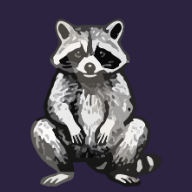
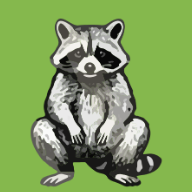
Switch to a light green palette and add the days that matter
Background is now 85B84D with light cards and dark green text, icons
rebuilt to match.

Mrs Raccoon also reminds him of the wedding anniversary on 7 September
(7, 3 and 1 days ahead plus the day itself), Valentine's day and cinnamon
bun day. The reminder is pushed at 07:30 outside the day's random slots,
once per day, and the app shows a banner as the day approaches.

Claude-Session: https://claude.ai/code/session_01682bsGJYGJd6KEeqXoALDB

diff --git a/style.css b/style.css
@@ -1,17 +1,17 @@
 /* =========================================================
-   MRS RACCOON 🦝 – mysig nattstil med varm pepp
+   MRS RACCOON 🦝 – ljus grön stil med varm pepp
    ========================================================= */
 
 :root {
-  --bg: #1d1830;
-  --bg-2: #2b2340;
-  --card: rgba(255, 255, 255, 0.06);
-  --card-border: rgba(255, 255, 255, 0.12);
-  --text: #f3eefb;
-  --muted: #b3a9cc;
-  --accent: #ffb765;
-  --accent-2: #ff7aa2;
-  --ok: #7ee3a7;
+  --bg: #85b84d;
+  --bg-top: #a5cf73;
+  --card: rgba(255, 255, 255, 0.82);
+  --card-border: rgba(37, 66, 18, 0.18);
+  --text: #20320f;
+  --muted: #4e6b32;
+  --accent: #e2622c;
+  --accent-2: #c8407a;
+  --ok: #2f7d24;
   --radius: 20px;
 }
 
@@ -21,7 +21,8 @@ html, body {
   margin: 0;
   padding: 0;
   min-height: 100%;
-  background: radial-gradient(1200px 600px at 50% -10%, #3a2f57 0%, var(--bg) 60%);
+  background: radial-gradient(1200px 700px at 50% -15%, var(--bg-top) 0%, var(--bg) 62%);
+  background-attachment: fixed;
   color: var(--text);
   font-family: Nunito, system-ui, -apple-system, "Segoe UI", sans-serif;
   -webkit-tap-highlight-color: transparent;
@@ -32,11 +33,11 @@ html, body {
   inset: 0;
   pointer-events: none;
   background-image:
-    radial-gradient(1.5px 1.5px at 20% 30%, rgba(255,255,255,0.5), transparent),
-    radial-gradient(1.5px 1.5px at 70% 20%, rgba(255,255,255,0.35), transparent),
-    radial-gradient(1.5px 1.5px at 40% 70%, rgba(255,255,255,0.3), transparent),
-    radial-gradient(2px 2px at 85% 60%, rgba(255,255,255,0.25), transparent),
-    radial-gradient(1.5px 1.5px at 10% 85%, rgba(255,255,255,0.3), transparent);
+    radial-gradient(2px 2px at 20% 30%, rgba(255,255,255,0.45), transparent),
+    radial-gradient(2px 2px at 70% 20%, rgba(255,255,255,0.32), transparent),
+    radial-gradient(2px 2px at 40% 70%, rgba(255,255,255,0.28), transparent),
+    radial-gradient(3px 3px at 85% 60%, rgba(255,255,255,0.22), transparent),
+    radial-gradient(2px 2px at 10% 85%, rgba(255,255,255,0.3), transparent);
   z-index: 0;
 }
 
@@ -102,7 +103,7 @@ html, body {
 }
 
 .icon-btn:active { transform: scale(0.92); }
-.icon-btn.active { background: rgba(255, 183, 101, 0.22); border-color: var(--accent); }
+.icon-btn.active { background: rgba(226, 98, 44, 0.18); border-color: var(--accent); }
 
 /* ------------------------- layout ------------------------- */
 
@@ -122,7 +123,7 @@ html, body {
 .raccoon-wrap {
   display: inline-block;
   cursor: pointer;
-  filter: drop-shadow(0 12px 24px rgba(0, 0, 0, 0.45));
+  filter: drop-shadow(0 14px 22px rgba(24, 45, 10, 0.35));
   animation: float 5s ease-in-out infinite;
 }
 
@@ -161,6 +162,20 @@ html, body {
   backdrop-filter: blur(6px);
 }
 
+/* ------------------------- märkesdagar ------------------------- */
+
+.special-banner {
+  margin-top: 20px;
+  background: linear-gradient(135deg, var(--accent), var(--accent-2));
+  color: #fff;
+  border-radius: var(--radius);
+  padding: 14px 18px;
+  font-weight: 800;
+  font-size: 16px;
+  line-height: 1.4;
+  box-shadow: 0 8px 18px rgba(30, 52, 15, 0.25);
+}
+
 /* ------------------------- progress ------------------------- */
 
 .progress-card {
@@ -182,7 +197,7 @@ html, body {
 
 .bar {
   height: 12px;
-  background: rgba(0, 0, 0, 0.3);
+  background: rgba(32, 50, 15, 0.16);
   border-radius: 999px;
   overflow: hidden;
 }
@@ -225,11 +240,12 @@ html, body {
   width: 28px;
   height: 28px;
   border-radius: 10px;
-  border: 2px solid var(--muted);
+  border: 2px solid rgba(78, 107, 50, 0.6);
+  background: rgba(255, 255, 255, 0.5);
   display: grid;
   place-items: center;
   font-weight: 800;
-  color: #17202b;
+  color: #ffffff;
   transition: background 0.2s ease, border-color 0.2s ease;
 }
 
@@ -240,8 +256,8 @@ html, body {
 .task-hint { font-size: 13px; color: var(--muted); line-height: 1.4; }
 
 .task.done {
-  background: rgba(126, 227, 167, 0.12);
-  border-color: rgba(126, 227, 167, 0.45);
+  background: rgba(255, 255, 255, 0.55);
+  border-color: rgba(47, 125, 36, 0.55);
 }
 
 .task.done .task-check { background: var(--ok); border-color: var(--ok); }
@@ -282,9 +298,9 @@ html, body {
 }
 
 .toast {
-  background: rgba(20, 16, 34, 0.94);
-  border: 1px solid var(--card-border);
-  color: var(--text);
+  background: rgba(30, 52, 15, 0.94);
+  border: 1px solid rgba(255, 255, 255, 0.2);
+  color: #f4f8ec;
   padding: 12px 18px;
   border-radius: 999px;
   font-weight: 700;

diff --git a/cloudflare-worker/src/worker.js b/cloudflare-worker/src/worker.js
@@ -20,6 +20,7 @@ import {
   TASK_NEDANVANING,
   TASK_STADA,
   TASK_SPRING,
+  SPECIAL_DAYS,
   LOVE,
   PEP,
   BUS,
@@ -211,6 +212,50 @@ function chooseMessage(state, minutesOfDay, weekday, recent) {
   return pickWeighted(recent);
 }
 
+/* --------------------------- märkesdagar --------------------------- */
+
+// Skickas en gång, strax efter att tysta natten tagit slut.
+const SPECIAL_HOUR_MIN = 7 * 60 + 30; // 07:30
+const SPECIAL_PREFIX = "special:";
+
+function daysUntil(dateStr, month, day) {
+  const today = new Date(dateStr + "T12:00:00Z");
+  let target = new Date(Date.UTC(today.getUTCFullYear(), month - 1, day, 12));
+  if (target < today) target = new Date(Date.UTC(today.getUTCFullYear() + 1, month - 1, day, 12));
+  return Math.round((target - today) / 86400000);
+}
+
+// Returnerar dagens märkesdagsmeddelande, eller null om inget ska skickas.
+function specialMessageFor(dateStr) {
+  for (const day of SPECIAL_DAYS) {
+    const left = daysUntil(dateStr, day.month, day.day);
+    if (left === 0) return { id: day.id + ":dag", text: pick(day.dayMessages) };
+    if (day.leadDays.includes(left)) {
+      const när = left === 1 ? "imorgon" : `om ${left} dagar`;
+      const text = pick(day.leadMessages)
+        .replace("{när}", när)
+        .replace("{När}", när.charAt(0).toUpperCase() + när.slice(1));
+      return { id: day.id + ":" + left, text };
+    }
+  }
+  return null;
+}
+
+async function sendSpecialIfDue(env, dateStr, minutesOfDay) {
+  if (minutesOfDay < SPECIAL_HOUR_MIN) return false;
+  const special = specialMessageFor(dateStr);
+  if (!special) return false;
+
+  const key = SPECIAL_PREFIX + special.id.split(":")[0] + ":" + dateStr;
+  if (await env.PUSH_KV.get(key)) return false;
+
+  const delivered = await sendPush(env, special.text);
+  if (!delivered) return false;
+  await env.PUSH_KV.put(key, special.text, { expirationTtl: 60 * 60 * 72 });
+  await rememberSent(env, special.text);
+  return true;
+}
+
 /* --------------------- dagens slumpade tider --------------------- */
 
 // Lottar fram dagens notistider en gång per dygn och sparar dem i KV,
@@ -276,6 +321,9 @@ async function runSchedule(env) {
 
   const hasSub = !!(await env.PUSH_KV.get(SUB_KEY));
   if (!hasSub) return;
+
+  // Märkesdagar går före allt annat och ligger utanför dagens lottade tider.
+  if (await sendSpecialIfDue(env, dateStr, minutesOfDay)) return;
 
   const slots = await getSchedule(env, dateStr, minutesOfDay);
   const due = slots.find(
@@ -379,7 +427,10 @@ async function handleRequest(request, env, url) {
         ? slots.map((s) => `  ${hhmm(s.at)}  ${s.sent ? "skickad ✅ " + (s.message || "") : "väntar"}`)
         : ["  (inga lottade än idag)"]),
       "",
-      `App-status: ${stateRaw || "appen har aldrig synkat"}`
+      `App-status: ${stateRaw || "appen har aldrig synkat"}`,
+      "",
+      "Märkesdagar:",
+      ...SPECIAL_DAYS.map((d) => `  ${d.id}: om ${daysUntil(dateStr, d.month, d.day)} dagar`)
     ];
     return text(lines.join("\n"));
   }

diff --git a/cloudflare-worker/src/messages.js b/cloudflare-worker/src/messages.js
@@ -188,3 +188,57 @@ export const RANDOM_POOL = [
   { list: BUS, weight: 2 },
   { list: FANIGT, weight: 2 }
 ];
+
+/* ---------------------------------------------------------
+   Märkesdagar
+
+   dayMessages skickas på själva dagen, leadMessages i förväg.
+   {när} byts ut mot "imorgon" eller "om 3 dagar". {När} ger stor bokstav.
+   --------------------------------------------------------- */
+export const SPECIAL_DAYS = [
+  {
+    id: "brollopsdag",
+    month: 9,
+    day: 7,
+    leadDays: [7, 3, 1],
+    dayMessages: [
+      "Idag är det er bröllopsdag! 💍 Grattis, älskling. Tack för varje år.",
+      "Bröllopsdag idag! 🥂 Du gifte dig med henne och hon skulle göra om det direkt.",
+      "Grattis på bröllopsdagen, herr tacos! Idag är ni två det finaste som finns. 💕"
+    ],
+    leadMessages: [
+      "Psst, er bröllopsdag är {när}. Du har hört det här först. 💍",
+      "{När} är det bröllopsdag, älskling. Blommor finns i affären. 💐",
+      "Räkna med mig: bröllopsdagen är {när}. Hinner du fixa något? 😌"
+    ]
+  },
+  {
+    id: "hjartans",
+    month: 2,
+    day: 14,
+    leadDays: [3, 1],
+    dayMessages: [
+      "Alla hjärtans dag! ❤ Din fru är kär i dig, bara så du vet.",
+      "Glad alla hjärtans dag, äcklis. Krama henne extra idag. 💘",
+      "Hjärtans dag idag! Säg något fint till henne, det är hela uppgiften. 💌"
+    ],
+    leadMessages: [
+      "Alla hjärtans dag är {när}, gullis. Bara en vänlig tvättbjörn som viskar. ❤",
+      "{När} är det alla hjärtans dag. Choklad? Blommor? Du bestämmer. 🍫"
+    ]
+  },
+  {
+    id: "kanelbulle",
+    month: 10,
+    day: 4,
+    leadDays: [1],
+    dayMessages: [
+      "KANELBULLENS DAG! 🥐 Det här är inte en övning, älskling. Skaffa en bulle.",
+      "Idag firar vi kanelbullen. Din uppgift: ät en. Gärna två. 🥯☕",
+      "Kanelbullens dag! Jag är en tvättbjörn, jag har redan ätit fyra. 🦝🥐"
+    ],
+    leadMessages: [
+      "{När} är det kanelbullens dag. Jäs degen ikväll så är du hjälte. 🥐"
+    ]
+  }
+];

diff --git a/app.js b/app.js
@@ -32,6 +32,40 @@ const TASKS = [
   { id: "spring", emoji: "👟", text: "Spring en runda", hint: "Rullande var tredje dag. Långsamt räknas också.", everyDays: 3 }
 ];
 
+/* ---------------- märkesdagar ----------------
+   Visas som en rubrik i appen på dagen och dagarna innan.
+   Samma dagar finns i workern, som skickar notiserna. */
+const SPECIAL_DAYS = [
+  { month: 9, day: 7, emoji: "💍", name: "er bröllopsdag", leadDays: 7 },
+  { month: 2, day: 14, emoji: "❤", name: "alla hjärtans dag", leadDays: 3 },
+  { month: 10, day: 4, emoji: "🥐", name: "kanelbullens dag", leadDays: 1 }
+];
+
+function daysUntilSpecial(day) {
+  const today = new Date(state.dateStr + "T12:00:00Z");
+  let target = new Date(Date.UTC(today.getUTCFullYear(), day.month - 1, day.day, 12));
+  if (target < today) target = new Date(Date.UTC(today.getUTCFullYear() + 1, day.month - 1, day.day, 12));
+  return Math.round((target - today) / 86400000);
+}
+
+function renderSpecialBanner() {
+  const box = document.getElementById("special-banner");
+  for (const day of SPECIAL_DAYS) {
+    const left = daysUntilSpecial(day);
+    if (left === 0) {
+      box.textContent = `${day.emoji} Idag är det ${day.name}!`;
+      box.hidden = false;
+      return;
+    }
+    if (left <= day.leadDays) {
+      box.textContent = `${day.emoji} ${left === 1 ? "Imorgon" : "Om " + left + " dagar"} är det ${day.name}.`;
+      box.hidden = false;
+      return;
+    }
+  }
+  box.hidden = true;
+}
+
 /* ---------------- tvättbjörnens poser ----------------
    Bilderna ligger i mappen raccoons och är utklippta ur de tre arken.
    Lägg till fler filer där och skriv in namnen i listorna nedan. */
@@ -259,6 +293,7 @@ function render() {
   });
 
   renderRunInfo();
+  renderSpecialBanner();
 }
 
 // Visar när nästa löprunda är inbokad, så det aldrig känns oklart.

diff --git a/index.html b/index.html
@@ -4,7 +4,7 @@
 <meta charset="UTF-8" />
 <meta name="viewport" content="width=device-width, initial-scale=1.0, maximum-scale=1" />
 <title>Mrs Raccoon 🦝</title>
-<meta name="theme-color" content="#2b2340" />
+<meta name="theme-color" content="#85b84d" />
 <link rel="manifest" href="manifest.json" />
 <link rel="icon" href="icons/icon-192.png" />
 <link rel="apple-touch-icon" href="icons/icon-192.png" />
@@ -37,6 +37,8 @@
     </div>
     <div id="bubble" class="bubble">Hej älskling! Klappa mig så säger jag något fint. 🦝</div>
   </section>
+
+  <section id="special-banner" class="special-banner" hidden></section>
 
   <section class="progress-card">
     <div class="progress-label">
